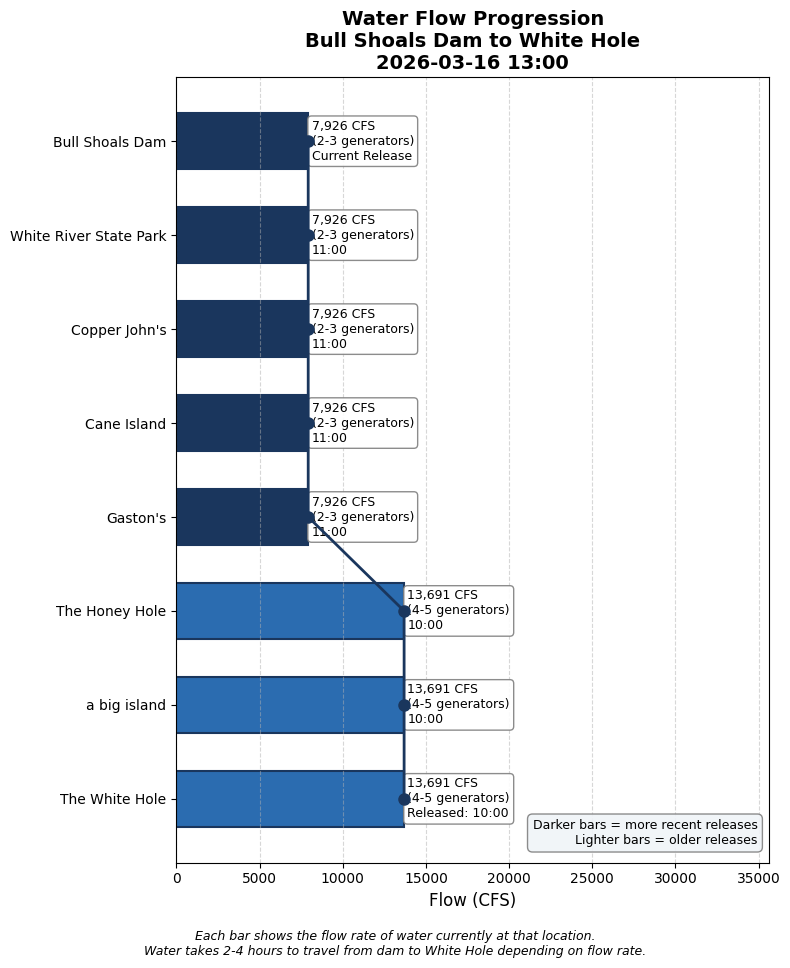
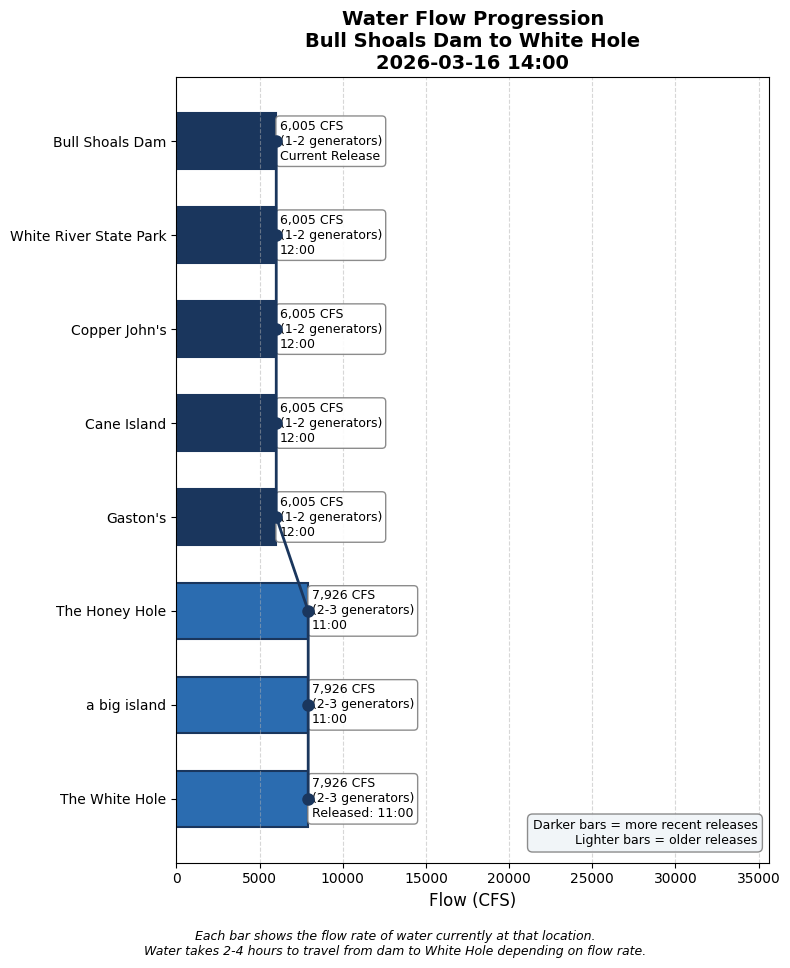
Update water conditions 2026-03-16 14:00

Changed region(s): [[0.3342, 0.093, 0.6684, 0.8678]]

diff --git a/white_hole_conditions.html b/white_hole_conditions.html
@@ -3,7 +3,7 @@
 <head>
     <meta charset="UTF-8">
     <meta name="viewport" content="width=device-width, initial-scale=1.0">
-    <title>White Hole Conditions - 2026-03-16 13:00</title>
+    <title>White Hole Conditions - 2026-03-16 14:00</title>
     <style>
         body {
             font-family: -apple-system, BlinkMacSystemFont, 'Segoe UI', Roboto, sans-serif;
@@ -77,8 +77,8 @@
             color: #991b1b;
         }
         .pill.boating {
-            background-color: #fee2e2;
-            color: #991b1b;
+            background-color: #dbeafe;
+            color: #1e40af;
         }
         .timeline-box {
             background-color: white;
@@ -148,7 +148,7 @@
 </head>
 <body>
     <h1>White Hole Current Conditions</h1>
-    <p class="subtitle">Monday, March 16, 2026 at 01:00 PM</p>
+    <p class="subtitle">Monday, March 16, 2026 at 02:00 PM</p>
 
     <!-- HEADLINE BANNER -->
     <div class="headline-banner">
@@ -159,11 +159,11 @@
     <!-- CURRENT CONDITIONS -->
     <div class="current-conditions">
         <h3>Current Conditions at White Hole</h3>
-        <div class="flow-display">13,691 CFS</div>
-        <div class="generator-display">Equivalent to 4-5 generators</div>
+        <div class="flow-display">7,926 CFS</div>
+        <div class="generator-display">Equivalent to 2-3 generators</div>
         <div class="condition-pills">
             <span class="pill wading">No Wading</span>
-            <span class="pill boating">High Water</span>
+            <span class="pill boating">Ideal Boating</span>
         </div>
         <a href="https://www.youtube.com/channel/UCAXhb9nFnsfu367AthDrgIA/live" target="_blank" class="webcam-link" style="margin-top: 15px;">
             📹 View Live Webcam
@@ -186,20 +186,20 @@
                 <tbody>
                     
                 <tr style="background-color: #ebf8ff;">
-                    <td style="padding: 10px; font-weight: bold;">11:00</td>
-                    <td style="padding: 10px;">7,926 CFS<br><small style="color: #666;">(2-3 generators)</small></td>
-                    <td style="padding: 10px;"><span style="color: #2b6cb0;">→ Arrives ~13:49 (in 49 min)</span></td>
+                    <td style="padding: 10px; font-weight: bold;">12:00</td>
+                    <td style="padding: 10px;">6,005 CFS<br><small style="color: #666;">(1-2 generators)</small></td>
+                    <td style="padding: 10px;"><span style="color: #2b6cb0;">→ Arrives ~15:03 (in 63 min)</span></td>
                 </tr>
             
                 <tr style="background-color: #e6fffa;">
-                    <td style="padding: 10px; font-weight: bold;">10:00</td>
-                    <td style="padding: 10px;">13,691 CFS<br><small style="color: #666;">(4-5 generators)</small></td>
+                    <td style="padding: 10px; font-weight: bold;">11:00</td>
+                    <td style="padding: 10px;">7,926 CFS<br><small style="color: #666;">(2-3 generators)</small></td>
                     <td style="padding: 10px;"><span style="color: #319795; font-weight: bold;">← AT WHITE HOLE NOW</span></td>
                 </tr>
             
                 <tr style="">
-                    <td style="padding: 10px; font-weight: bold;">06:00</td>
-                    <td style="padding: 10px;">7,460 CFS<br><small style="color: #666;">(2-3 generators)</small></td>
+                    <td style="padding: 10px; font-weight: bold;">07:00</td>
+                    <td style="padding: 10px;">14,170 CFS<br><small style="color: #666;">(4-5 generators)</small></td>
                     <td style="padding: 10px;"><span style="color: #718096;">passed</span></td>
                 </tr>
             
@@ -224,9 +224,9 @@
         </summary>
         <div style="padding: 15px;">
             <ul>
-                <li>Latest dam reading: 7,926 CFS at 2026-03-16 11:00</li>
-                <li>Travel time to White Hole: 2.4 hours at current flow</li>
-                <li>White Hole conditions based on dam reading from: 2026-03-16 10:00</li>
+                <li>Latest dam reading: 6,005 CFS at 2026-03-16 12:00</li>
+                <li>Travel time to White Hole: 2.8 hours at current flow</li>
+                <li>White Hole conditions based on dam reading from: 2026-03-16 11:00</li>
             </ul>
         </div>
     </details>
@@ -248,6 +248,13 @@
                     </thead>
                     <tbody>
                         
+                <tr style="border-bottom: 1px solid #eee;">
+                    <td style="padding: 8px;">2026-03-16 12:00</td>
+                    <td style="padding: 8px; text-align: right;">6005</td>
+                    <td style="padding: 8px; text-align: right;">1.8</td>
+                    <td style="padding: 8px; text-align: right;">3.1</td>
+                </tr>
+                
                 <tr style="border-bottom: 1px solid #eee;">
                     <td style="padding: 8px;">2026-03-16 11:00</td>
                     <td style="padding: 8px; text-align: right;">7926</td>
@@ -311,13 +318,6 @@
                     <td style="padding: 8px; text-align: right;">3.7</td>
                 </tr>
                 
-                <tr style="border-bottom: 1px solid #eee;">
-                    <td style="padding: 8px;">2026-03-16 02:00</td>
-                    <td style="padding: 8px; text-align: right;">797</td>
-                    <td style="padding: 8px; text-align: right;">0.2</td>
-                    <td style="padding: 8px; text-align: right;">3.7</td>
-                </tr>
-                
                     </tbody>
                 </table>
             </div>
@@ -325,7 +325,7 @@
         
 
     <div class="timestamp">
-        Data retrieved and processed on 2026-03-16 13:00:08
+        Data retrieved and processed on 2026-03-16 14:00:21
     </div>
 </body>
 </html>
